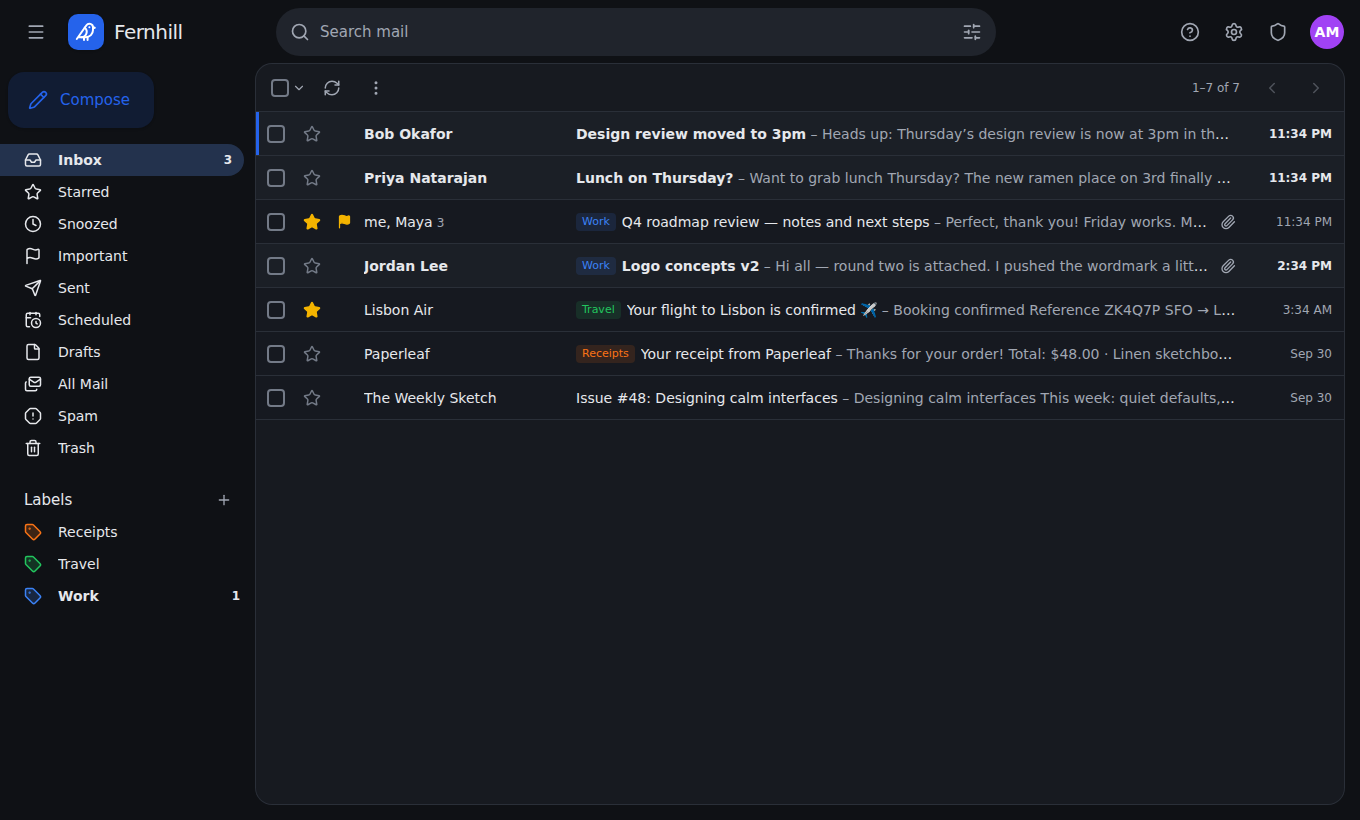
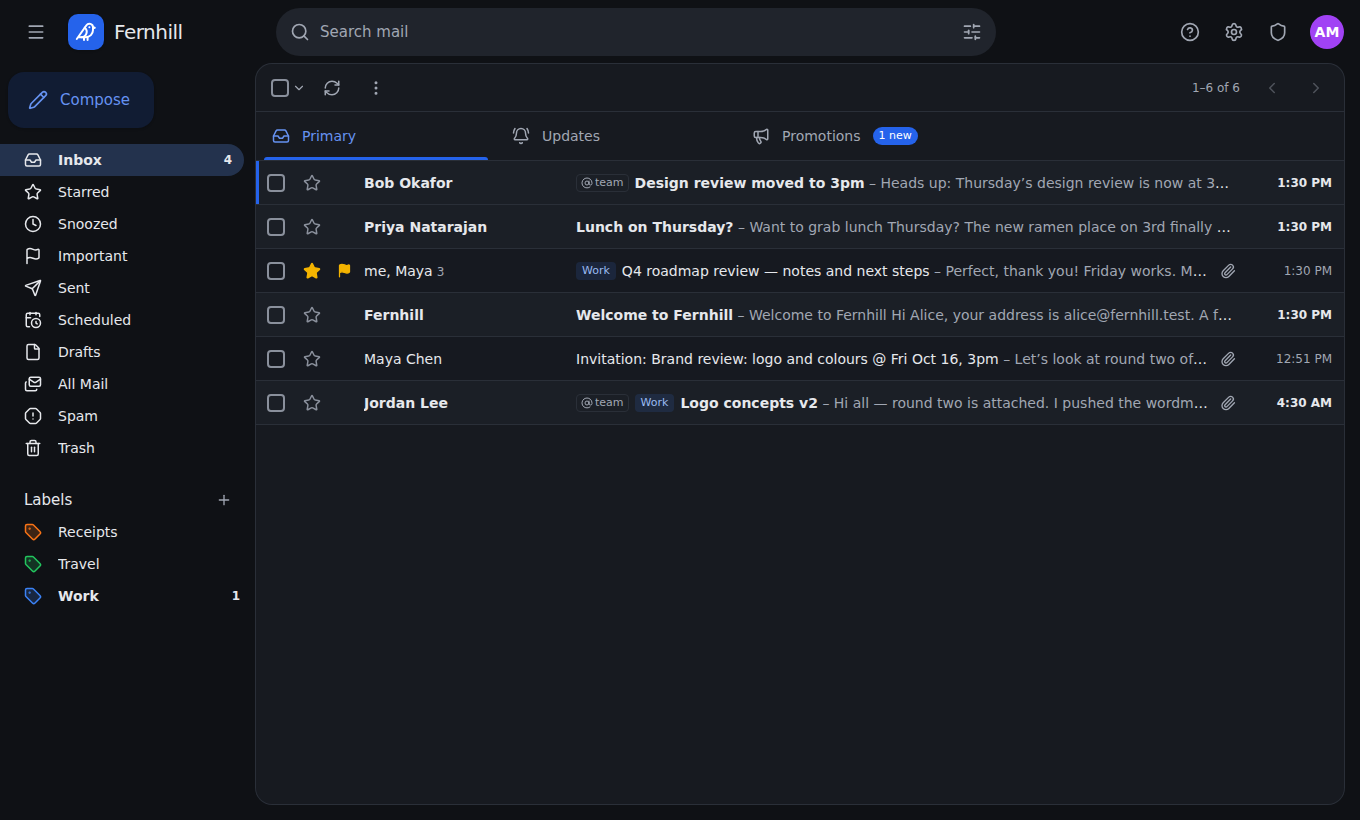
Fresh README screenshots and docs for the new features
- New screenshots: the inbox with tabs and alias chips, a meeting
  invitation, the phone inbox, plus the conversation, compose, admin,
  providers and dark-mode shots retaken.
- README: inbox tabs and unsubscribe, which-address chips and sign-up
  addresses, invitations, attachment previews, delivery status from
  every provider, catch-all activity, daily backups, passkeys and
  sign-in alerts, new search operators.
- docs/providers.md: how delivery status and meeting replies work with
  each provider; docs/cloudflare.md: automatic backups; docs/PLAN.md:
  how the new pieces work.

Claude-Session: https://claude.ai/code/session_01Jub4w9w6rXnVvybFTo9eFV

diff --git a/README.md b/README.md
@@ -23,15 +23,20 @@ Send with Cloudflare Email Service (no API key) or Resend, and receive with Emai
   Postal, SMTP relays (Gmail, Microsoft 365, Fastmail…) and more, with a fallback provider per
   domain. See [docs/providers.md](docs/providers.md).
 - **Feels like Gmail.** Conversations, labels, stars, snooze, undo send, scheduled send,
-  search operators, keyboard shortcuts, a floating compose window, inline replies, and dark mode.
+  Primary / Updates / Promotions tabs, one-click unsubscribe, meeting invitations you can
+  answer, attachment previews, search operators, keyboard shortcuts, a floating compose
+  window, inline replies, and dark mode.
 - **A real admin panel.** Users, quotas, domains with DNS health checks, providers with
-  test sends, the mail queue, delivery logs, policies, invites, audit log, and backups.
+  test sends, the mail queue, delivery logs with bounces and a suppression list (from every
+  provider), catch-all control, policies, invites, audit log, and daily backups to R2.
 
 | Conversation | Compose |
 |---|---|
 | ![Conversation](docs/screenshots/conversation.png) | ![Compose](docs/screenshots/compose.png) |
 | **Admin overview** | **20+ providers** |
 | ![Admin](docs/screenshots/admin.png) | ![Providers](docs/screenshots/providers.png) |
+| **Meeting invitations** | **On your phone** |
+| ![Invitation](docs/screenshots/invitation.png) | <img src="docs/screenshots/phone.png" alt="Wren on a phone" width="300"> |
 
 ## Quick start
 
@@ -84,6 +89,28 @@ blocking, and view original / download `.eml`. Saved replies, saved searches in 
 sidebar, a signature per address, and shared mailboxes (support@, sales@) that a team
 reads together, with "sent by" on each reply.
 
+**Inbox tabs.** Primary, Updates (receipts, alerts, notifications, discussion lists) and
+Promotions (newsletters, offers), with unread counts. Mail written by a person always
+stays in Primary; move a conversation to another tab and that sender's mail follows.
+Can be turned off. **Unsubscribe** sits next to the sender of mailing-list mail: Wren
+uses the list's one-click unsubscribe (RFC 8058), or emails the list's unsubscribe
+address from the address it mails, or opens the list's page.
+
+**Which address it came to.** Mail that reached you through an alias, a group, a
+sign-up address or the catch-all shows a small "@hello" chip; click it to see
+everything sent there (`deliveredto:`). Turn an alias off from the message menu or
+Settings → Accounts, and mail to it bounces. **Sign-up addresses** (like
+`shoe-shop.k3x9@yourdomain`): one per site, with how much mail each received, so a
+leaked one is easy to spot and switch off.
+
+**Meeting invitations.** Invitations from Google Calendar, Outlook, Apple Calendar and
+others show as an event card: the time in your zone (and the organizer's), place,
+guests, Join, Add to calendar, and Yes / Maybe / No, which sends a proper calendar reply
+to the organizer.
+
+**Attachment previews.** Images, PDFs, text files, audio and video open in a viewer with
+previous / next, download and open in a new tab.
+
 **On your phone.** Installable as an app (PWA) with its own icon and an offline app
 shell. New-mail notifications through Web Push. Pushes carry no data: the app asks Wren
 what's new, so nothing about your mail passes through the push service. Gmail-style
@@ -99,15 +126,16 @@ Contacts import from Google/Outlook CSV or vCard and export to both.
 **Search.** Full text (SQLite FTS5) plus `from:` `to:` `cc:` `subject:` `label:`
 `has:attachment` `filename:` `is:unread|starred|important|snoozed`
 `in:inbox|sent|spam|trash|anywhere` `before:` `after:` `older_than:` `newer_than:`
-`larger:` `smaller:`, "exact phrases" and `-negation`. Includes an advanced search form
-and "create filter from search".
+`larger:` `smaller:` `deliveredto:` `category:primary|updates|promotions`,
+"exact phrases" and `-negation`. Includes an advanced search form and "create filter
+from search".
 
 **Settings.** Theme, density, page size, default From, signatures, vacation responder
 (dates, contacts only, one reply per sender per 4 days), forwarding, filters (label,
 archive, star, forward, delete, never/always spam), blocked senders, labels, swipe
-actions, notifications, self-service aliases (if the admin allows), password, a
-recovery email for "Forgot password?", TOTP 2FA with recovery codes, active sessions,
-and API keys.
+actions, notifications, inbox tabs, self-service aliases and sign-up addresses (if the
+admin allows), password, a recovery email for "Forgot password?", passkeys, TOTP 2FA
+with recovery codes, sign-in alerts, active sessions, and API keys.
 
 **Admin.**
 - Dashboard with volume chart, provider health, and a "Get Wren ready" checklist built
@@ -123,19 +151,28 @@ and API keys.
 - Domains: DNS records that match the sending provider, a DNS checker with health
   badges, provider and fallback, catch-all, DKIM selectors, and one-click Cloudflare
   setup (Email Routing and Email Sending). It won't move a domain's mail away from its
-  current MX without asking.
+  current MX without asking. Catch-all activity lists the addresses the catch-all has
+  been taking, so you can block one or make it a real alias.
 - Aliases, groups and shared mailboxes.
 - Providers: verify credentials, send test email, rotate inbound URLs.
 - Mail queue with retry and cancel; delivery logs with search, filters, a timeline and
   retry. Logs show headers only; admins never see message bodies.
+- Delivery status from every provider: bounces, spam complaints, delays and deliveries,
+  from each provider's event webhook (Resend, SES, Postmark, SendGrid, Mailgun, Brevo,
+  Mailjet, SparkPost, MailerSend and more) or from bounce emails (SMTP relays, Cloudflare
+  Email Service). Addresses that hard-bounce or complain go on a suppression list and
+  aren't mailed again until removed. See [docs/providers.md](docs/providers.md).
 - Invites, emailed for you; registration policy (closed, invite, open).
 - Security policies: required 2FA, password length, session length, lockout.
 - Limits; spam settings (built-in scoring or rspamd) and a server-wide blocklist; retention.
 - Branding; announcement emails; audit log.
-- Backups: portable export and restore, plus point-in-time recovery on Cloudflare.
+- Backups: a daily backup of the database to R2 (keep the last 7, or as many as you
+  like; an alert if one fails), back up now, download, restore; portable export and
+  restore; point-in-time recovery on Cloudflare.
 
 **Security.**
-- Passwords hashed with scrypt; TOTP 2FA.
+- Passwords hashed with scrypt; passkeys (WebAuthn); TOTP 2FA.
+- An email when your account is signed in to from a new device.
 - Provider secrets encrypted with AES-256-GCM.
 - HttpOnly SameSite cookies plus a CSRF header.
 - Login rate limiting and an audit trail.
@@ -170,7 +207,7 @@ The design notes are in [docs/PLAN.md](docs/PLAN.md).
 npm install
 npm run dev         # the Worker on the real Workers runtime (workerd) at http://localhost:8787
 npm run dev:web     # optional: hot-reloading UI at http://localhost:5173 (API proxied to 8787)
-npm test            # vitest: MIME, SMTP client, providers, mail flow, backups, HTTP API
+npm test            # vitest: MIME, SMTP client, every provider, mail flow, passkeys, backups, HTTP API
 npm run typecheck
 ```
 

diff --git a/docs/PLAN.md b/docs/PLAN.md
@@ -176,8 +176,27 @@ sessions, appearance, and personal API keys.
 - **Web Push** uses VAPID (ES256) with keys generated on first use. Pushes are empty;
   the service worker fetches `/api/me/notifications` with the session cookie.
 - **Admins never read mail:** delivery and inbound log details show headers only.
+- **Delivery status** (`providers/events.ts`, `mail/dsn.ts`, `services/delivery-events.ts`):
+  each provider's event webhook posts to the provider's existing secret URL and is
+  turned into delivered / bounced / complained / delayed events; bounce emails (RFC
+  3464) and ARF spam reports are read on the way in, which covers SMTP relays and
+  Cloudflare Email Service. Events match outbox rows by provider id or Message-ID,
+  scoped to that provider and to the message's own recipients. Hard bounces of a missing
+  mailbox and complaints go on `suppressions`, which `deliver()` checks before sending.
+- **Inbox tabs** (`mail/categorize.ts`) are decided once, at delivery, into
+  `messages.category`: bulk and automation headers, sender names and subjects, with
+  "a person wrote this" winning; moving a conversation writes a `category_rules` row
+  for the sender. `messages.delivered_to` records the address mail came through.
+- **Passkeys** (`lib/webauthn.ts`) are verified on WebCrypto with a small CBOR reader;
+  "none" attestation; the relying party is `PUBLIC_URL`. Sign-in alerts key devices by a
+  long-lived cookie (`known_devices`).
+- **Automatic backups** (`services/auto-backup.ts`) write the portable export to R2 in
+  8 MB parts from the alarm, resuming by table and rowid; parts count as referenced for
+  blob garbage collection until the backup is deleted.
+- **Invitations** (`shared/ics.ts`, `services/calendar.ts`): the first VEVENT of a
+  text/calendar part, times converted with `Intl` (IANA and Windows zone names); replies
+  are iTIP REPLY parts sent through the normal send path.
 
 ## Later
 JMAP over HTTP for desktop and mobile clients (Workers can't accept IMAP connections),
-calendar and contacts sync over HTTP (CalDAV/CardDAV), delivery/bounce webhooks per
-provider, and multi-tenant billing.
+calendar and contacts sync over HTTP (CalDAV/CardDAV), and multi-tenant billing.

diff --git a/docs/cloudflare.md b/docs/cloudflare.md
@@ -144,7 +144,12 @@ recovery only works once deployed.
 
 ## Backups
 
-**Admin → System & backup** has three tools:
+**Admin → System & backup** has these tools:
+
+- **Automatic backups.** Every day (03:00 UTC by default) a copy of the database is
+  written to the R2 bucket, and the last 7 are kept (choose 3–60). An admin alert goes
+  out if one fails, and it's retried an hour later. Back up now, download any backup,
+  and (owner only) restore one from the same page.
 
 - **Point-in-time recovery.** Roll the whole database back to any moment in the last 30
   days, for example after an accidental bulk delete. Message files that were deleted in
